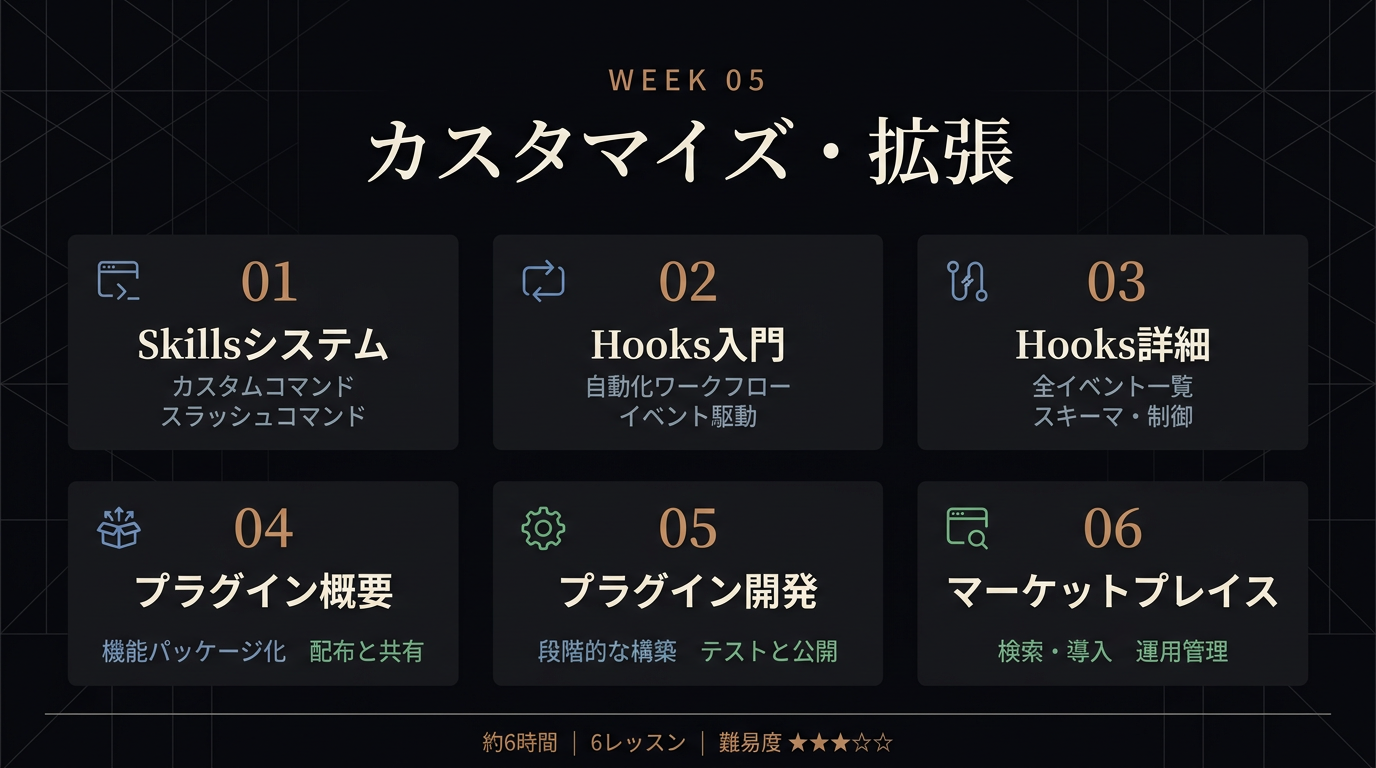
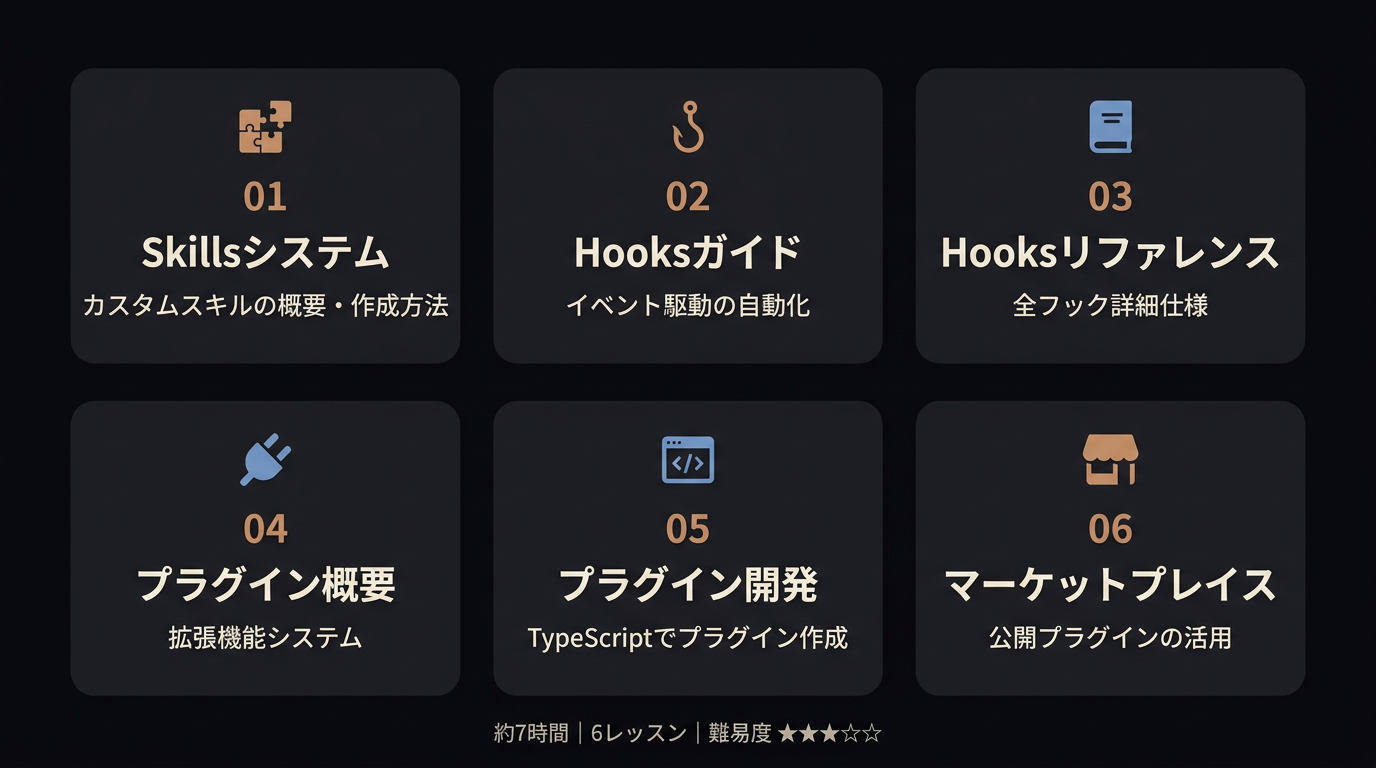
fix: ヒーローバナーからタイトルを除去し、レッスン数に応じたアスペクト比に調整
タイトルはテキストで既に表示されているため画像から除外。
1行レイアウト（5枚: Week 01-02）は21:9、2行レイアウト（6-7枚: Week 03-08）は16:9に。

diff --git a/site/src/app/week/[weekId]/page.tsx b/site/src/app/week/[weekId]/page.tsx
@@ -55,8 +55,8 @@ export default async function WeekPage({ params }: Props) {
           <Image
             src={`/images/week-${weekId}-hero.png`}
             alt={`Week ${weekId}: ${week.title}`}
-            width={1024}
-            height={576}
+            width={1376}
+            height={week.lessons.length <= 5 ? 589 : 768}
             className="w-full h-auto"
             priority
           />
